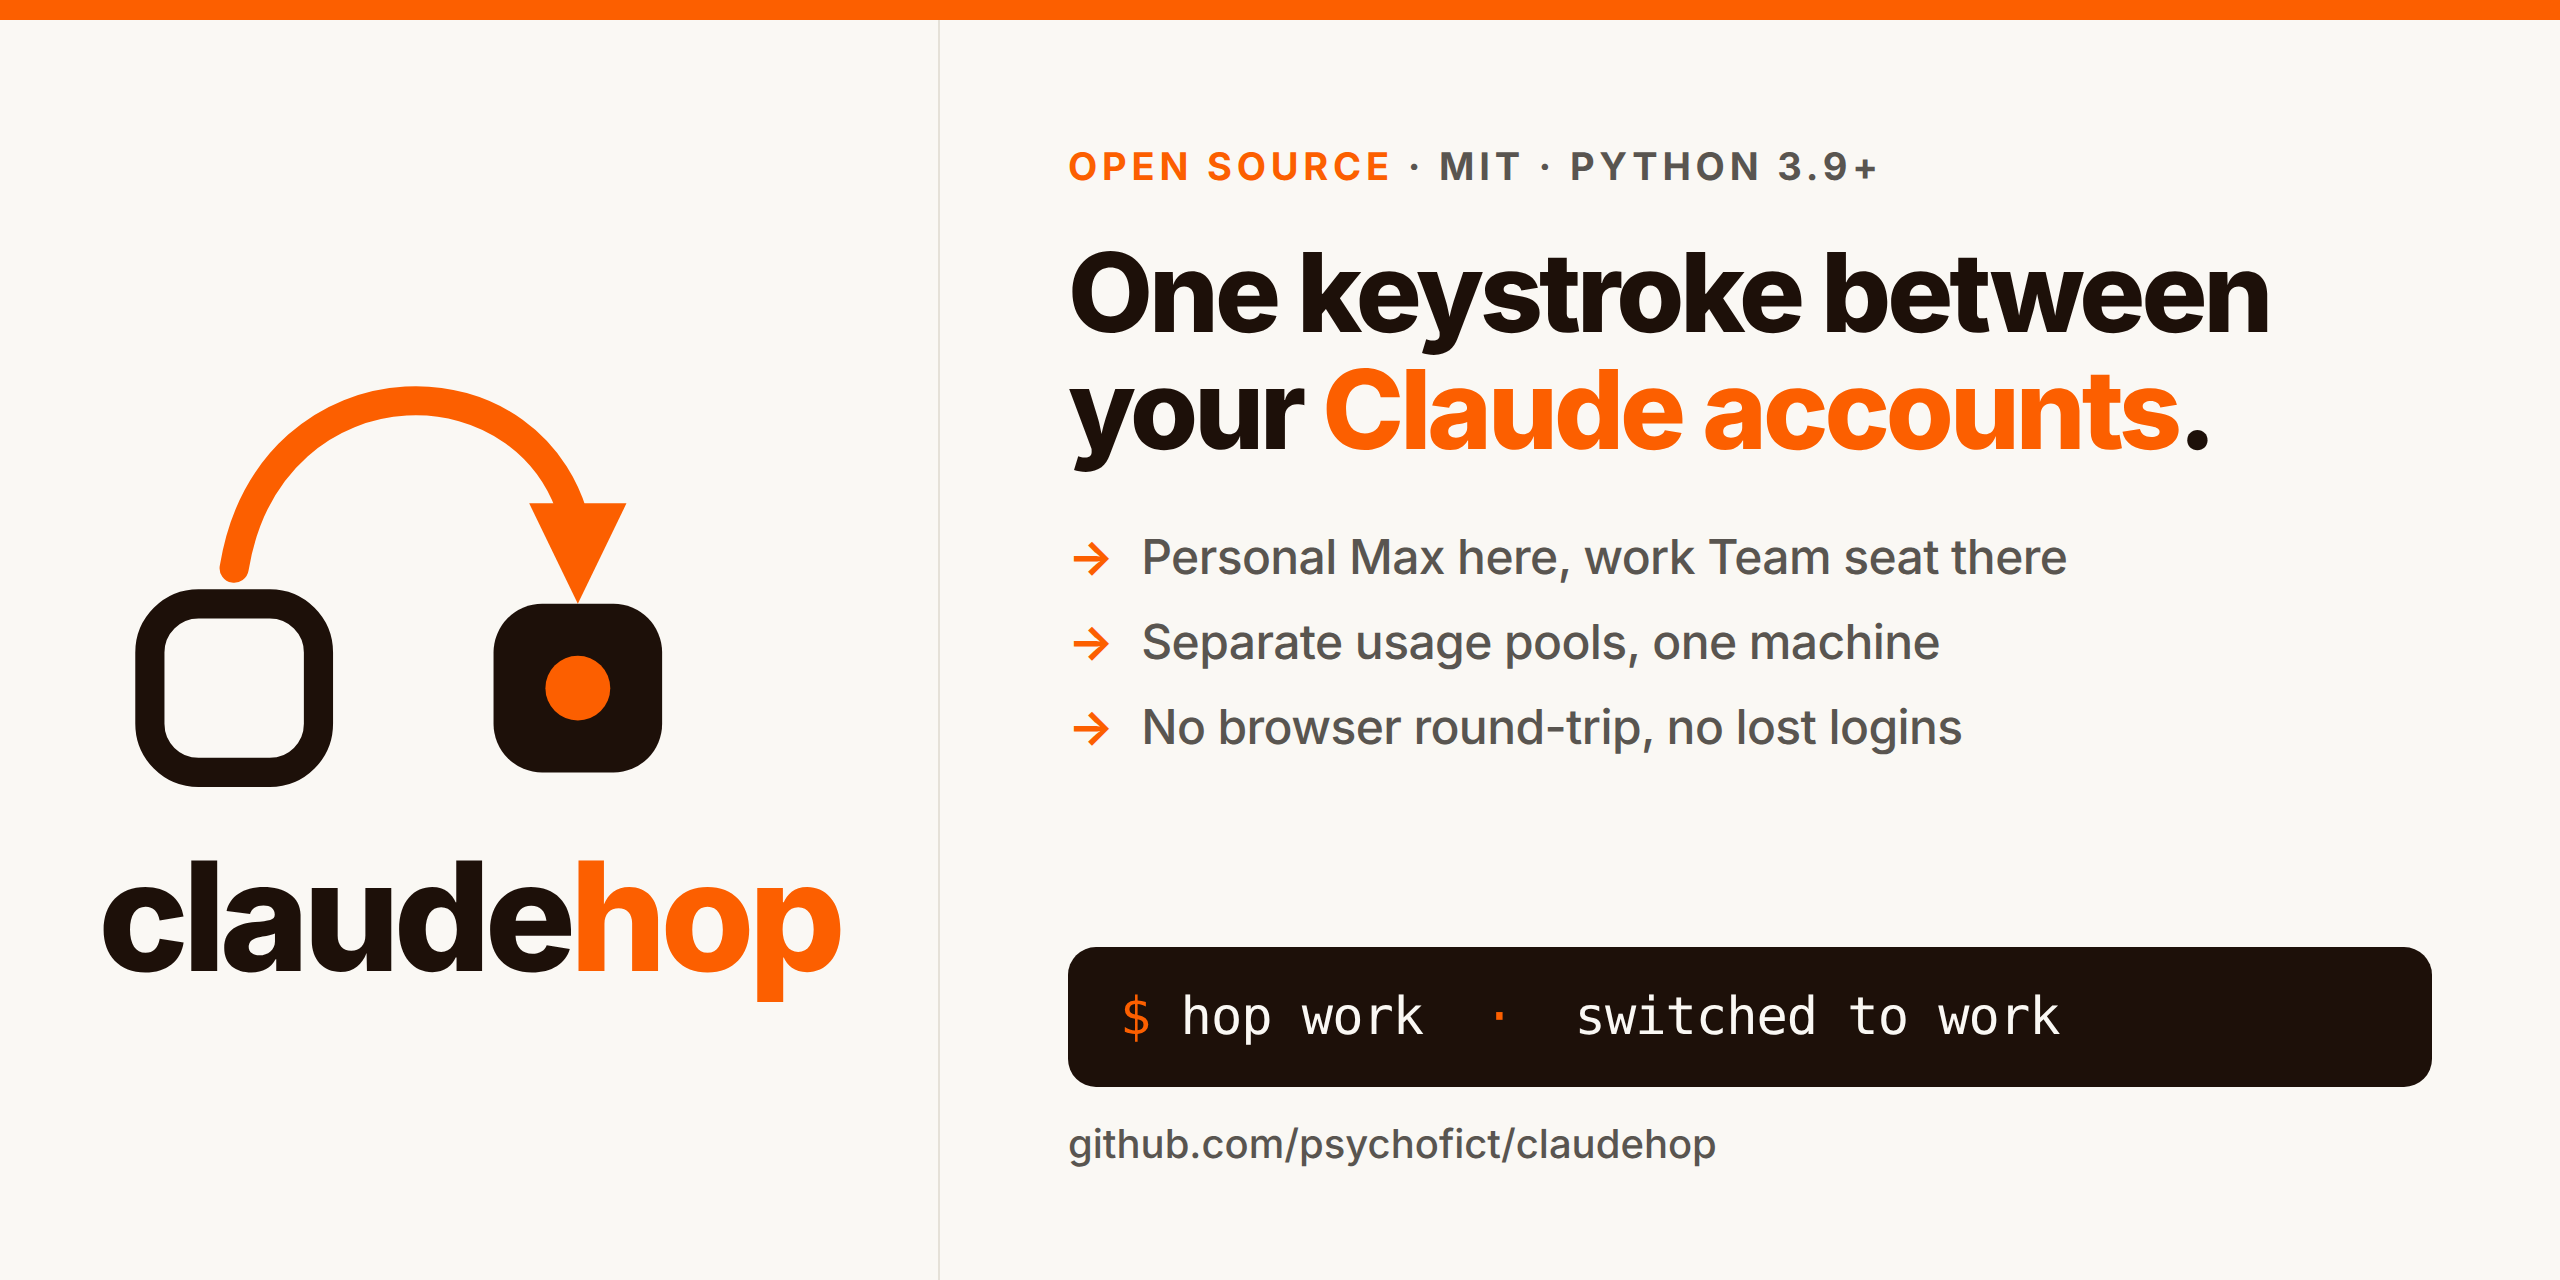
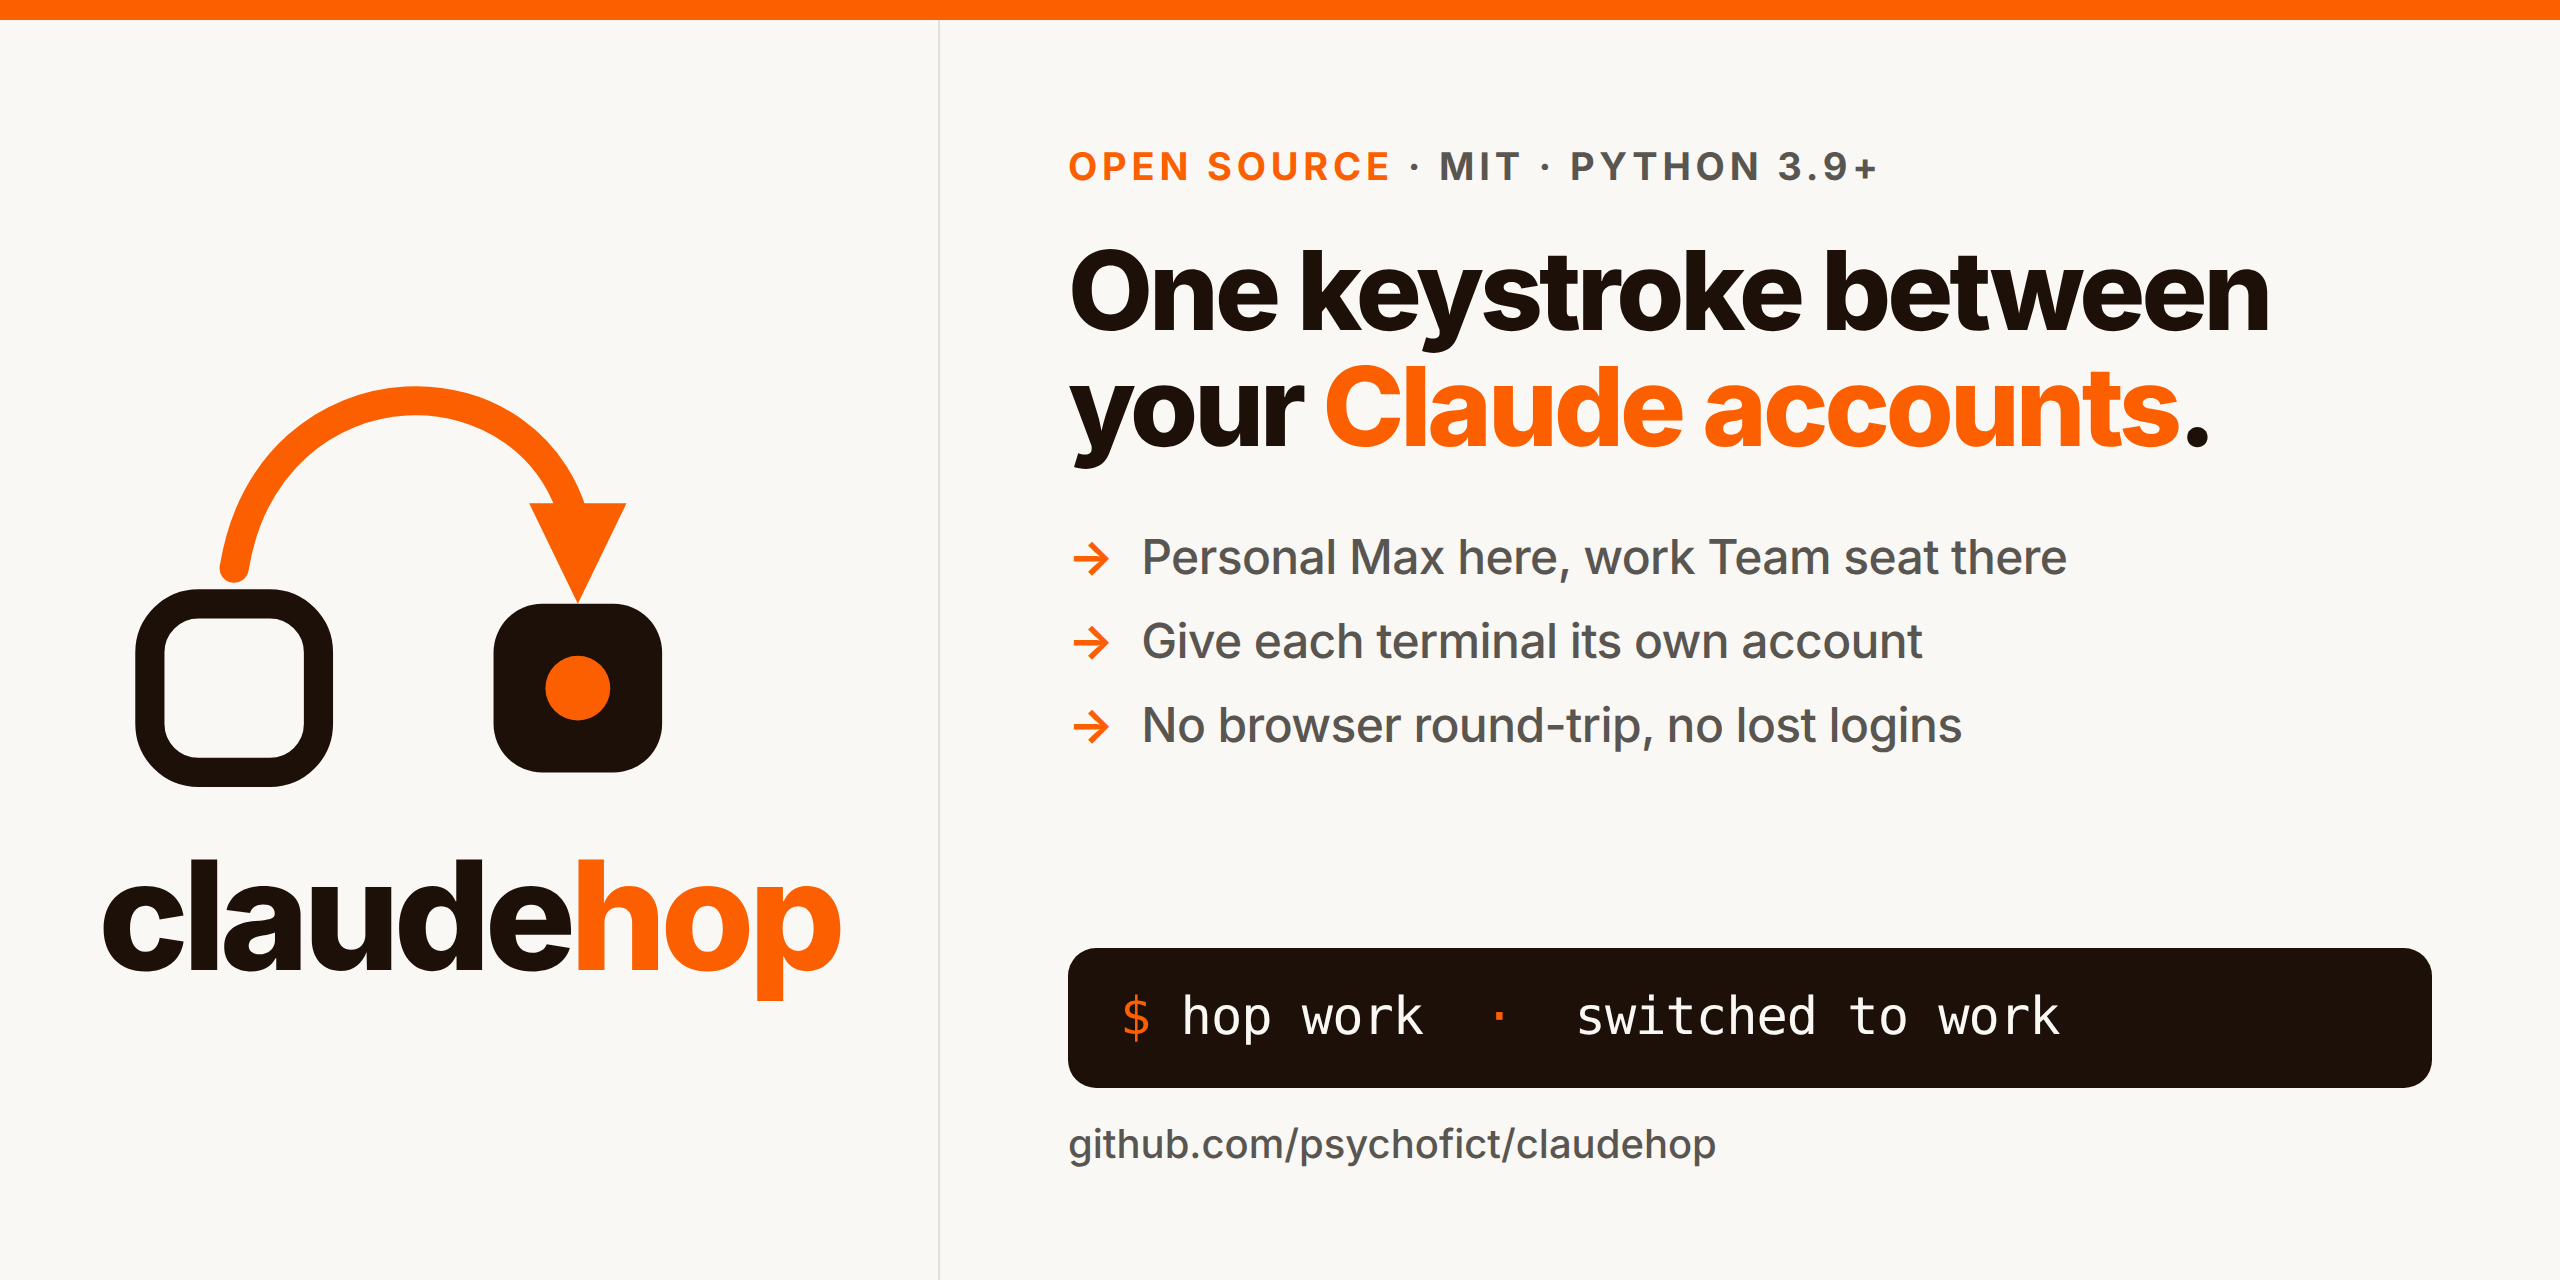
Social preview: describe giving each terminal its own account

diff --git a/assets/social-preview.html b/assets/social-preview.html
@@ -63,7 +63,7 @@
   <h1>One keystroke between<br>your <em>Claude accounts</em>.</h1>
   <ul>
     <li>Personal Max here, work Team seat there</li>
-    <li>Separate usage pools, one machine</li>
+    <li>Give each terminal its own account</li>
     <li>No browser round-trip, no lost logins</li>
   </ul>
   <div class="term"><i>$</i> hop work &nbsp;<i>·</i>&nbsp; switched to work</div>
